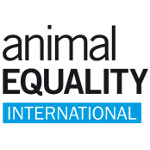
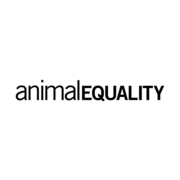
Merged in mein_master (pull request #69)
Mein master

* Frage zu Mensch/Tierleid vergleich umformuliert, kleine Typos korrigiert

* Anpassungen für Animal Equality: long text, titel, Icon, Länder für Karte

* Anpassung für IISS: Typo im Titel

* Änderungen für END_FUND: Logo, Banner, long_description (hier war vorher nichts vorhanden und die short_description übernommen, dass bitte anpassen), donation1000

* Kleine Anpassung für CATF in der Beschreibung

* End fund text auf deutsch übersetzt

* resolved conflict

* Typo in END Fund Text bereinigt

diff --git a/src/app/services/data.ts b/src/app/services/data.ts
@@ -135,8 +135,8 @@ export class DataService {
       questionaireResults: [ 'human health' ],
       slogan: 'Unterstützung von Entwurmungsprogrammen in Ländern mit niedrigem Einkommen',
       shortDescription: 'Der END-Fonds verwaltet Zuschüsse, stellt Finanzmittel bereit und unterstützt staatliche Programme zur Kontrolle und Beseitigung vernachlässigter Tropenkrankheiten, einschließlich der Entwurmung.',
-      longDescription: 'Der END-Fonds verwaltet Zuschüsse, stellt Finanzmittel bereit und unterstützt staatliche Programme zur Kontrolle und Beseitigung vernachlässigter Tropenkrankheiten, einschließlich der Entwurmung.',
-      impact1000: null,
+      longDescription: 'Vernachlässigte Tropenkrankheiten (Neglected Tropical Diseases, NTDs) sind eine Gruppe von parasitären und bakteriellen Infektionskrankheiten, von denen mehr als 1,5 Milliarden Menschen auf der ganzen Welt betroffen sind, die Hälfte davon sind Kinder. Der END Fund konzentriert sich auf die Bereitstellung von NTD-Behandlungen, einschließlich Entwurmung, indem er strategische Investitionen mit hoher Wirkung in NTD-Programme verwaltet, mit Partnern aus Regierung, NGOs, Pharmazie und Wissenschaft zusammenarbeitet sowie eine Gemeinschaft von Aktivisten und Philanthropen aufbaut und einbezieht. Es wird ein systematischer Ansatz verfolgt, um das breite Ökosystem von Interessenvertretern, die an der Beendigung von NTDs arbeiten, zu verstehen, sich mit ihnen auseinanderzusetzen und Einfluss zu nehmen.',
+      impact1000: 'Studien zeigen, dass die Behandlung von NTDs die kostenwirksamste Methode ist, um die Anwesenheit von Kindern in der Schule zu verbessern und ihre Lern- und Konzentrationsfähigkeit zu steigern. Mit nur 50 Cent (USD) wird ein Paket von Medikamenten mit rascher Wirkung finanziert, um eine Person gegen die fünf häufigsten NTDs zu behandeln. Mit 1.000 Euro können wir dazu beitragen, über 2.000 Menschen mit Entwurmungsmedikamenten zu versorgen.',
       donationDeficit: 15000000,
       evaluators: [
         {
